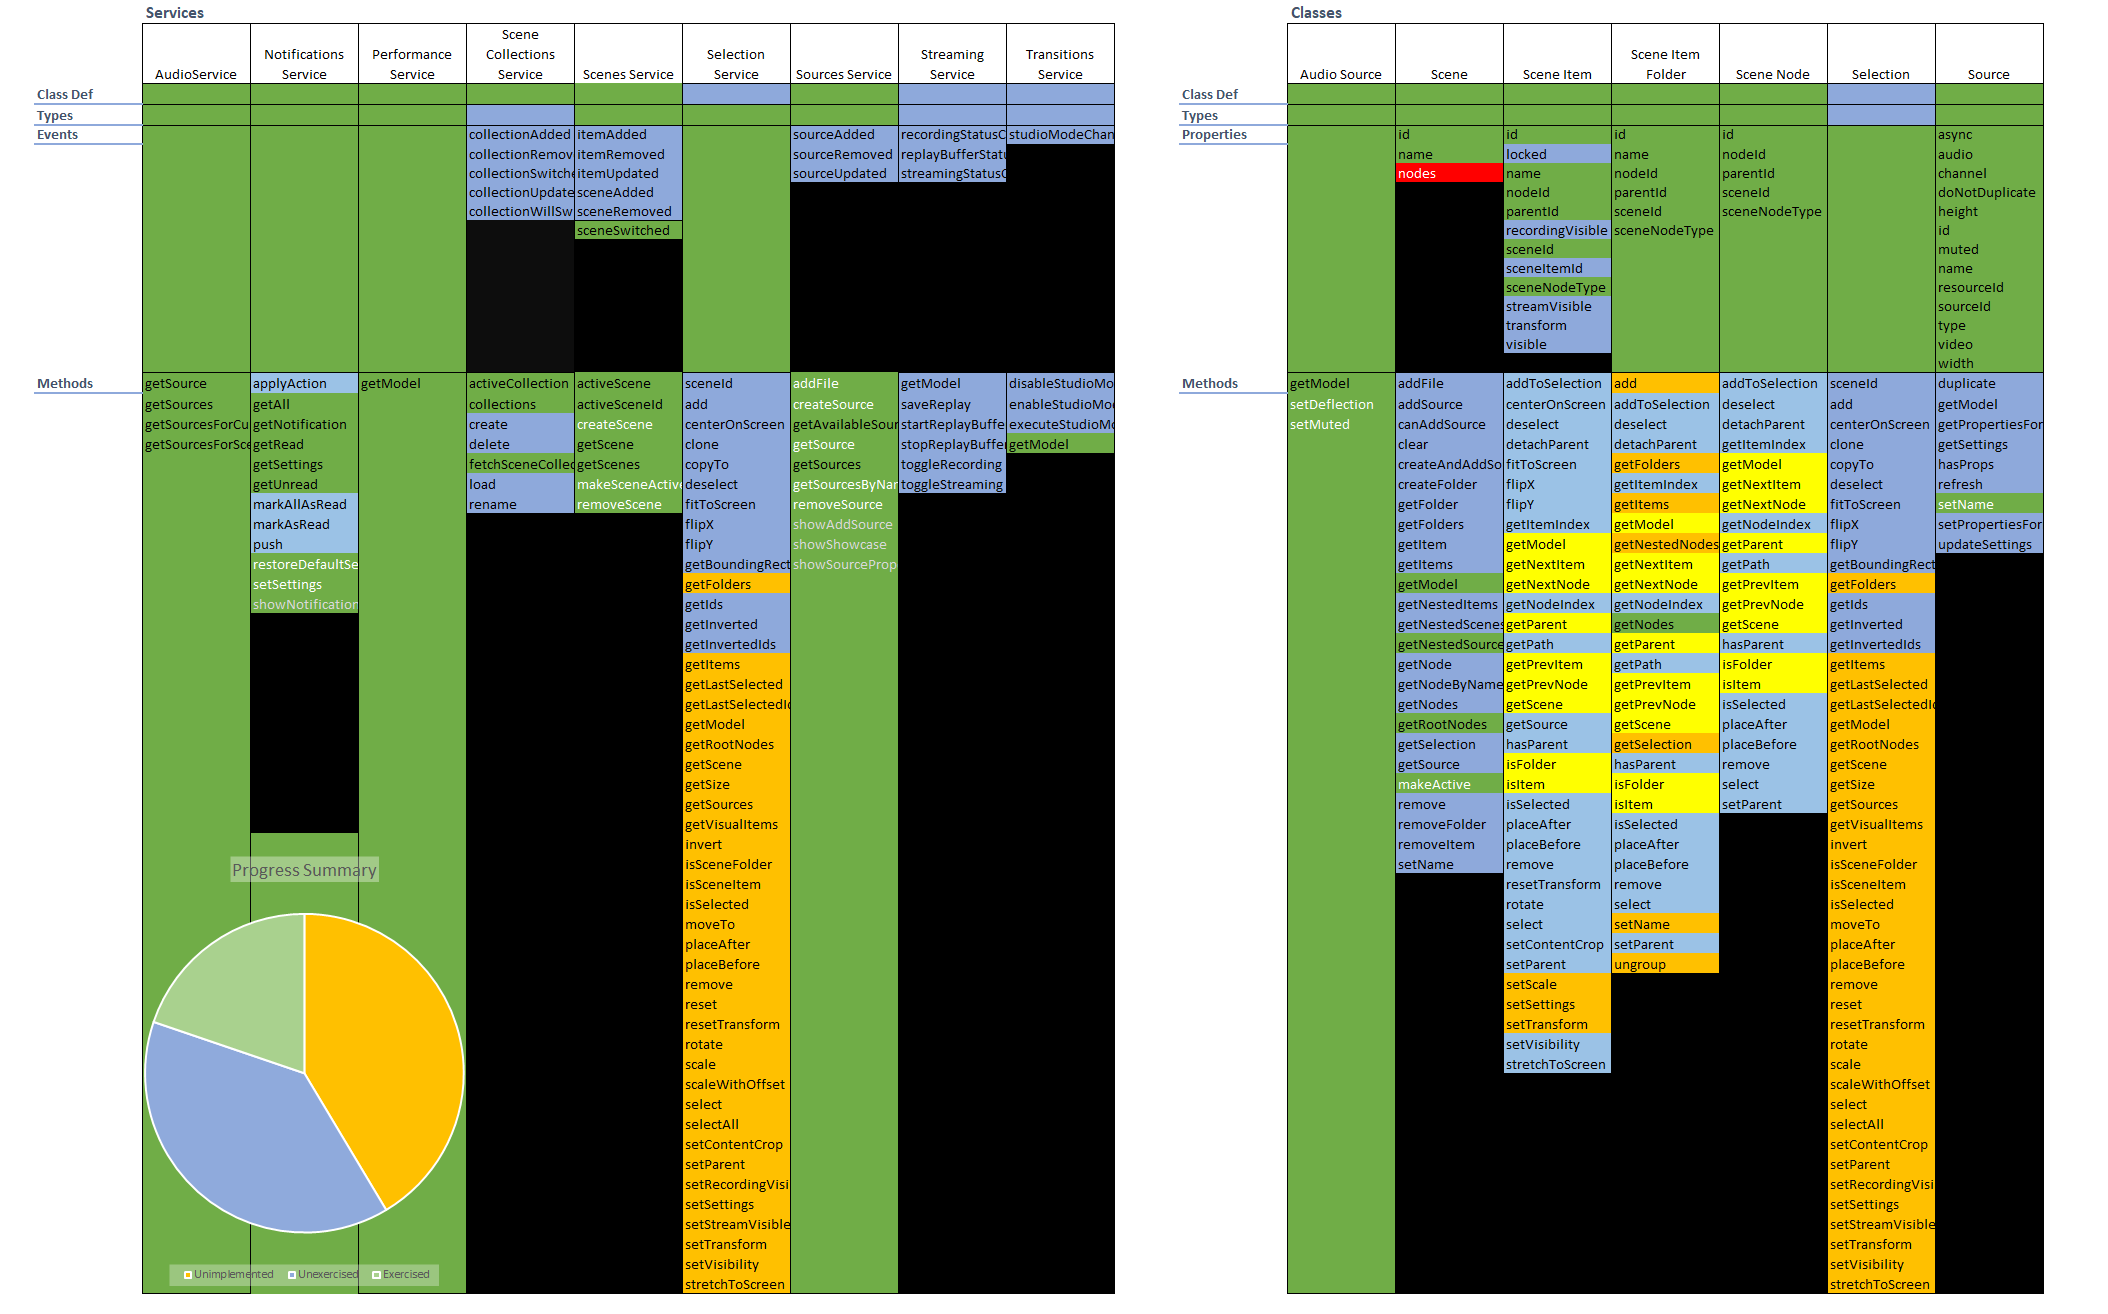
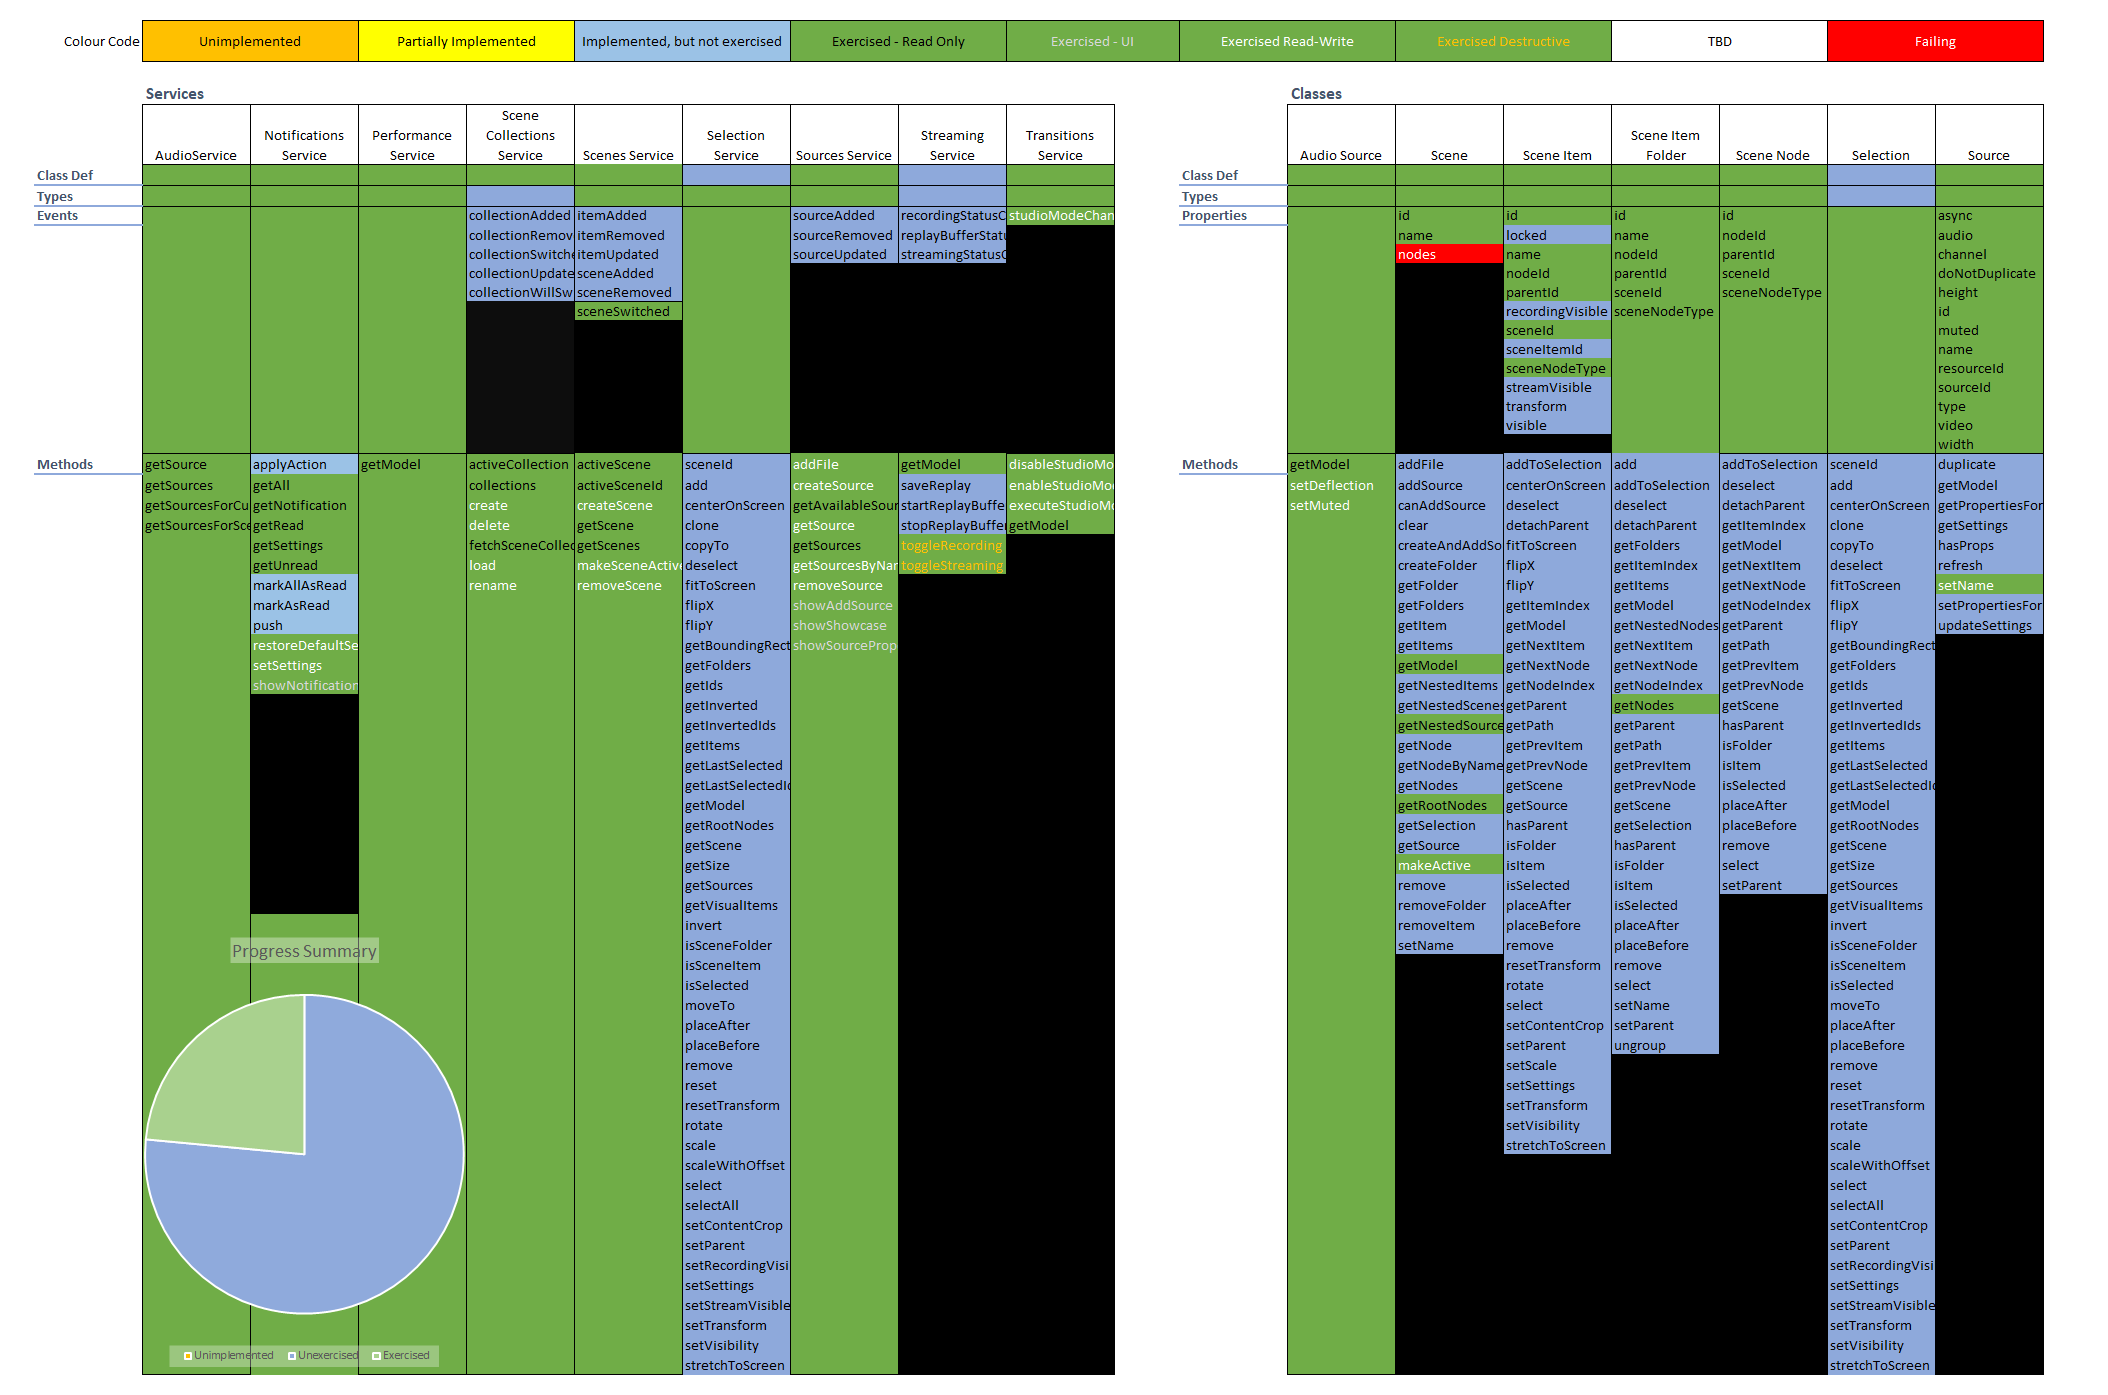
Update Progress

diff --git a/PROGRESS.md b/PROGRESS.md
@@ -1,22 +1,19 @@
 ## Progress
 
-This project is still in Alpha. This document explains what is ready to use
-and what is not.
+This project has now been released. However, the API is very large, and some
+parts remain untested.
 
 ### Core Infrastructure
 
 The ability to connect to the server, send commands, receive replies and 
 subscribe to notifications is all in place.
 
-All of the SlobsServices have been defined, and almost all of the Slobs
-classes.
+All of the SlobsServices and Slobs classes have been defined.
 
-All of the Events and almost all of the Properties have been defined.
+All of the Events and Properties have been defined.
 
-There are 170 commands that can be called on Classes and Services. At last 
-count, only 70 had been implemented. (Note: Each method is relatively
-short to implement; if there are particular commands you need implemented
-faster, please raise an Issue.)
+All 268 commands that can be called on Classes and Services have been implemented.
+However, they have not all been tested.
 
 ### Testing
 
@@ -59,7 +56,7 @@ The exercises are divided into four categories:
  ### Progress Chart
  
  This unwieldy chart is colour-coded to show progress towards getting every
- Service, Class, Property, Event and Method available on the API both
- implemented and part of exercise code so they can be repeatable checked.
+ Service, Class, Property, Event and Method available on the API covered 
+ by the exercise code.
  
  ![Progress Chart](progress_chart.png)
